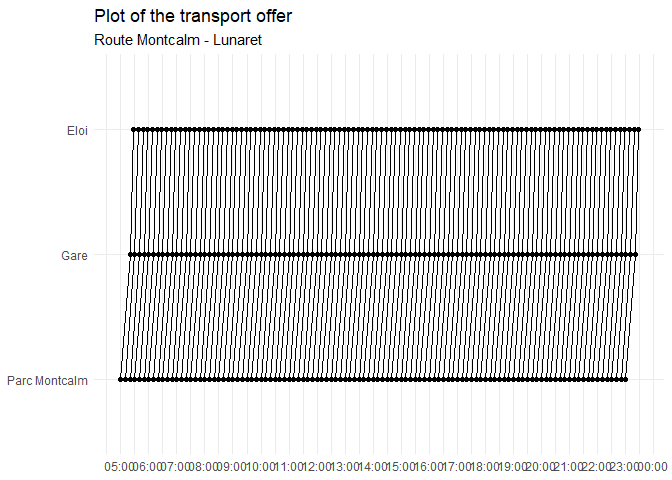
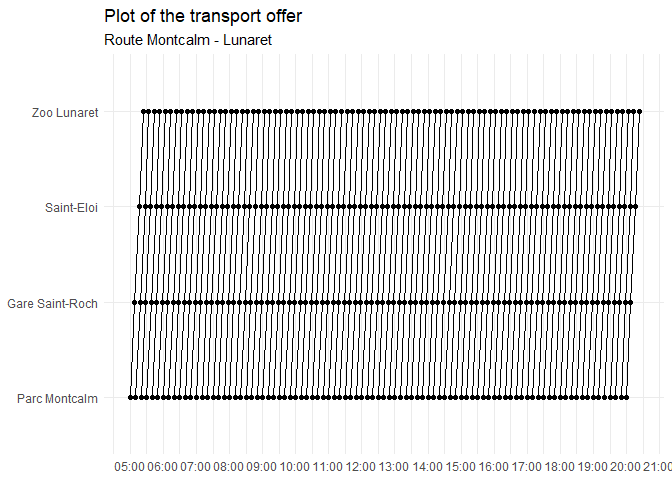
Update

diff --git a/README.md b/README.md
@@ -32,38 +32,80 @@ devtools::install_github("jc-ulles/gtfsmaker")
 An example of creating a GTFS from fictitious data:
 
 ``` r
-library(gtfsmaker )
+library(gtfsmaker)
 
 # Create all the files needed in the R environment
 gtfs_files()
 
 # Add a new transport agency
-add_agency("Transport Montpellier TAM", "www.tam-voyages.com/", "Europe/Paris")
+add_agency(name = "Transport Montpellier TAM",
+           url = "www.tam-voyages.com/",
+           timezone = "Europe/Paris")
 
 # Add some stops with location
-add_stops(43.59608069974394, 3.8626826404232526, "Parc Montcalm")
-add_stops(43.59608069974394, 4.8626826404232526, "Gare")
-add_stops(43.59608069974394, 4.8626826404232526, "Eloi")
+add_stops(lat = 43.59690,
+          lon = 3.86357,
+          name = "Parc Montcalm")
+
+add_stops(lat = 43.60524,
+          lon = 3.88039,
+          name = "Gare Saint-Roch")
+
+add_stops(lat = 43.62695,
+          lon = 3.86584,
+          name = "Saint-Eloi")
+
+add_stops(lat = 43.63946,
+          lon = 3.87340,
+          name = "Zoo Lunaret")
 
 # Add a new route: long name and mode of transport (0 is for the tram)
-add_route("Montcalm - Lunaret", 0)
+add_route(name = "Montcalm - Lunaret",
+          type = 0)
 
 # Add a new trip belonging to a route (1 is for the route_id created when the route was added previously)
-add_trips(1)
+add_trips(route_id = 1)
 
 # Add some transport services corresponding to a trip (trip_id), a timetable, a stop (stop_id) and the order of progression in the sequence
-add_stop_times(1, "05:00:00", 1, 1)
-add_stop_times(1, "05:20:00", 2, 2)
-add_stop_times(1, "05:28:00", 3, 3)
+add_stop_times(trip_id = 1,
+               time = "05:00:00",
+               stop_id = 1,
+               sequence = 1)
+
+add_stop_times(trip_id = 1,
+               time = "05:08:00",
+               stop_id = 2,
+               sequence = 2)
+
+add_stop_times(trip_id = 1,
+               time = "05:17:00",
+               stop_id = 3,
+               sequence = 3)
+
+add_stop_times(trip_id = 1,
+               time = "05:23:00",
+               stop_id = 4,
+               sequence = 4)
 
 # Repeat the sequence of the selected transport service (trip_id) up to a maximum time, following a defined time step (in minutes)
-repeat_stop_times(1, "23:00:00", 10)
+repeat_stop_times(trip_id = 1,
+                  max_time = "20:00:00",
+                  breaks = 10)
 
 # Add a calendar defining the days on which the service operates (Monday to Sunday) and the time slot
-add_calendar(1, 1, 1, 1, 1, 1, 1, 1, 20240511, 20241231)
+add_calendar(service_id = 1,
+             monday = 1,
+             tuesday = 1,
+             wednesday = 1,
+             thursday = 1,
+             friday = 1,
+             saturday = 1,
+             sunday = 1,
+             start_date = 20240511,
+             end_date = 20241231)
 
-# Finally, plot the transport offer (trip_id)
-plot_trips(1)
+# Finally, plot the transport offer
+plot_trips(service_id = 1)
 ```
 
 <img src="man/figures/README-example-1.png" width="100%" />
